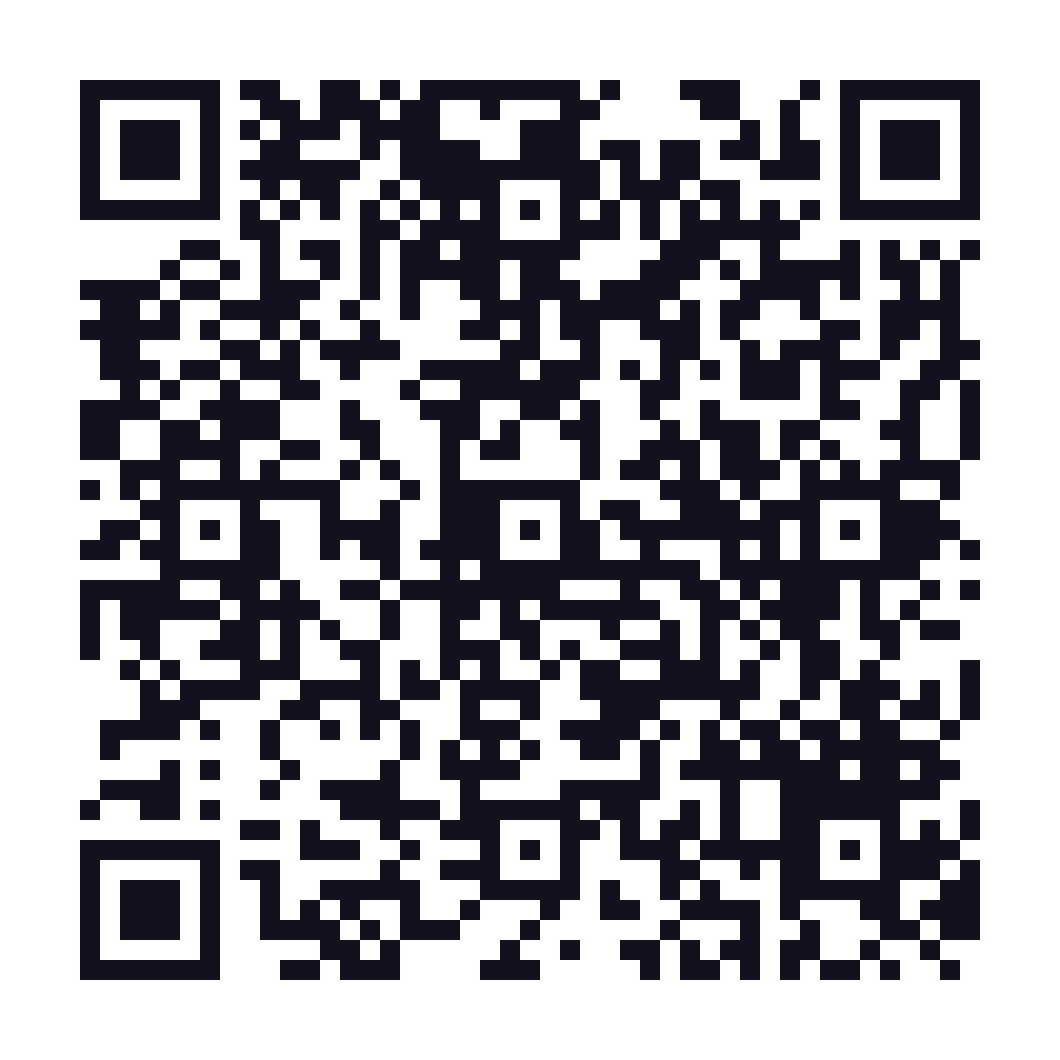
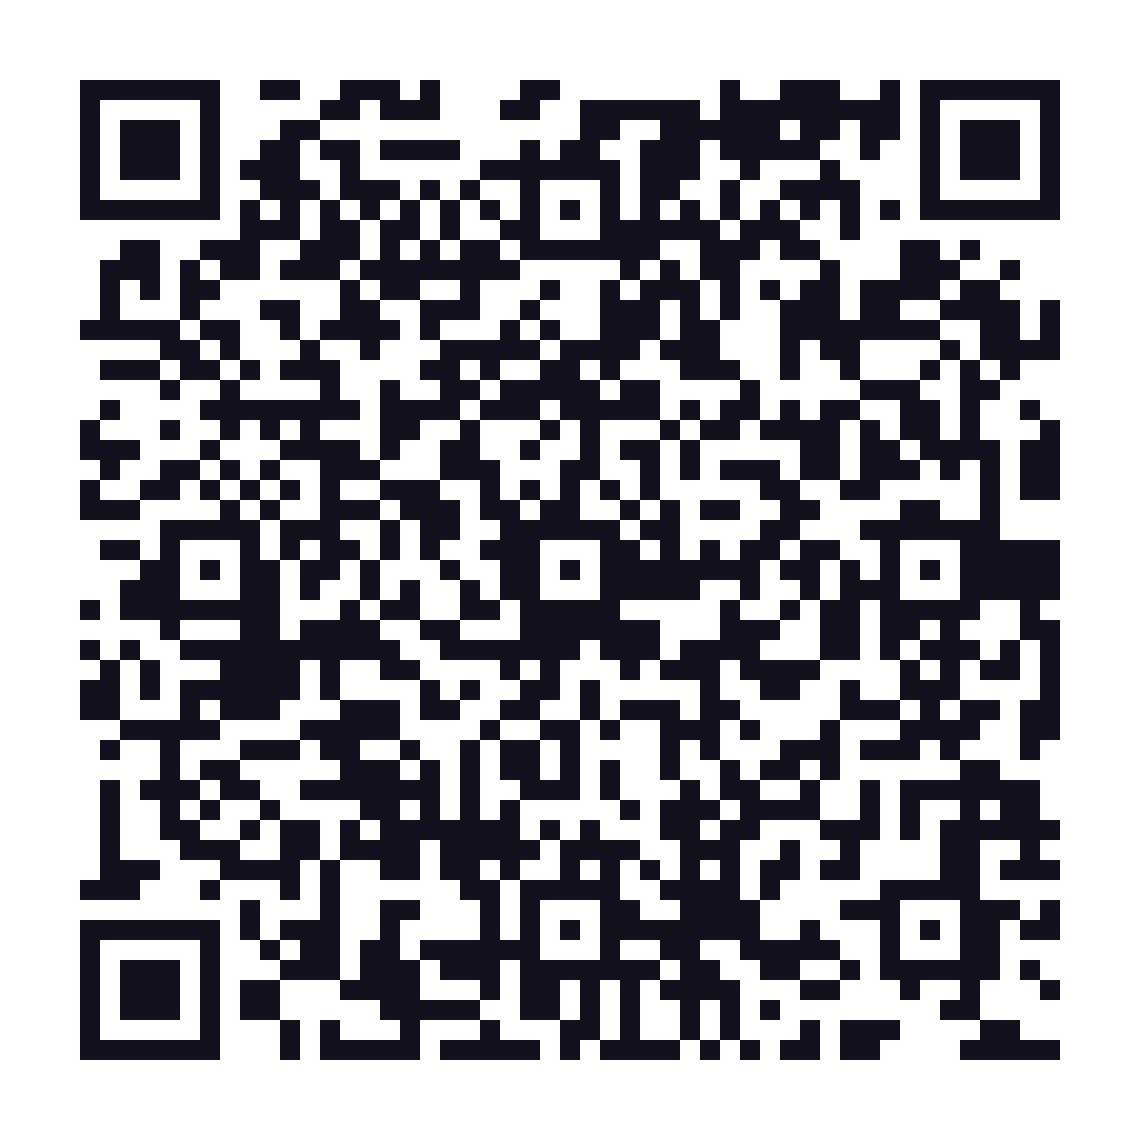
QR page: point at the CNN study app, not the tools index

diff --git a/qr-print.html b/qr-print.html
@@ -3,7 +3,7 @@
 <head>
 <meta charset="UTF-8">
 <meta name="viewport" content="width=device-width, initial-scale=1.0">
-<title>CNN Review App — Scan to Open (print this page)</title>
+<title>CNN Study App — Scan to Open (print this page)</title>
 <style>
   @page { size: letter; margin: 0.75in; }
   :root {
@@ -56,19 +56,19 @@
 <body>
 <div class="sheet">
   <div class="brand">UC DAVIS RENAL · CLINICAL TOOLKIT</div>
-  <h1>CNN Review App</h1>
+  <h1>CNN Study App</h1>
   <p class="sub">Free study tool for the Certified Nephrology Nurse exam.<br>Point your phone's camera at the code — no app store, no sign-up download.</p>
 
   <div class="qr-wrap">
-    <div class="qr"><img src="qr-cnn-review.png" alt="QR code to the CNN Review App"></div>
+    <div class="qr"><img src="qr-cnn-review.png" alt="QR code to the CNN Study App"></div>
     <ul class="steps">
       <li><div class="n">1</div><div><b>Scan</b><span>Open the camera app and aim at the code.</span></div></li>
-      <li><div class="n">2</div><div><b>Tap the link</b><span>The CNN Review App opens in your browser.</span></div></li>
-      <li><div class="n">3</div><div><b>Pick your tool</b><span>Study questions, calculators, and progress tracking.</span></div></li>
+      <li><div class="n">2</div><div><b>Tap the link</b><span>The CNN Study App opens in your browser.</span></div></li>
+      <li><div class="n">3</div><div><b>Pick your tool</b><span>1,315 practice questions, flashcards, lessons, and progress tracking.</span></div></li>
     </ul>
   </div>
 
-  <p class="url">https://omllenado-rgb.github.io/uc-davis-renal-apps/index.html</p>
+  <p class="url">https://omllenado-rgb.github.io/uc-davis-renal-apps/cnn-exam-study.html</p>
 
   <div class="foot">
     <div>Questions: Oliver Llenado, RN · omllenado@gmail.com</div>
